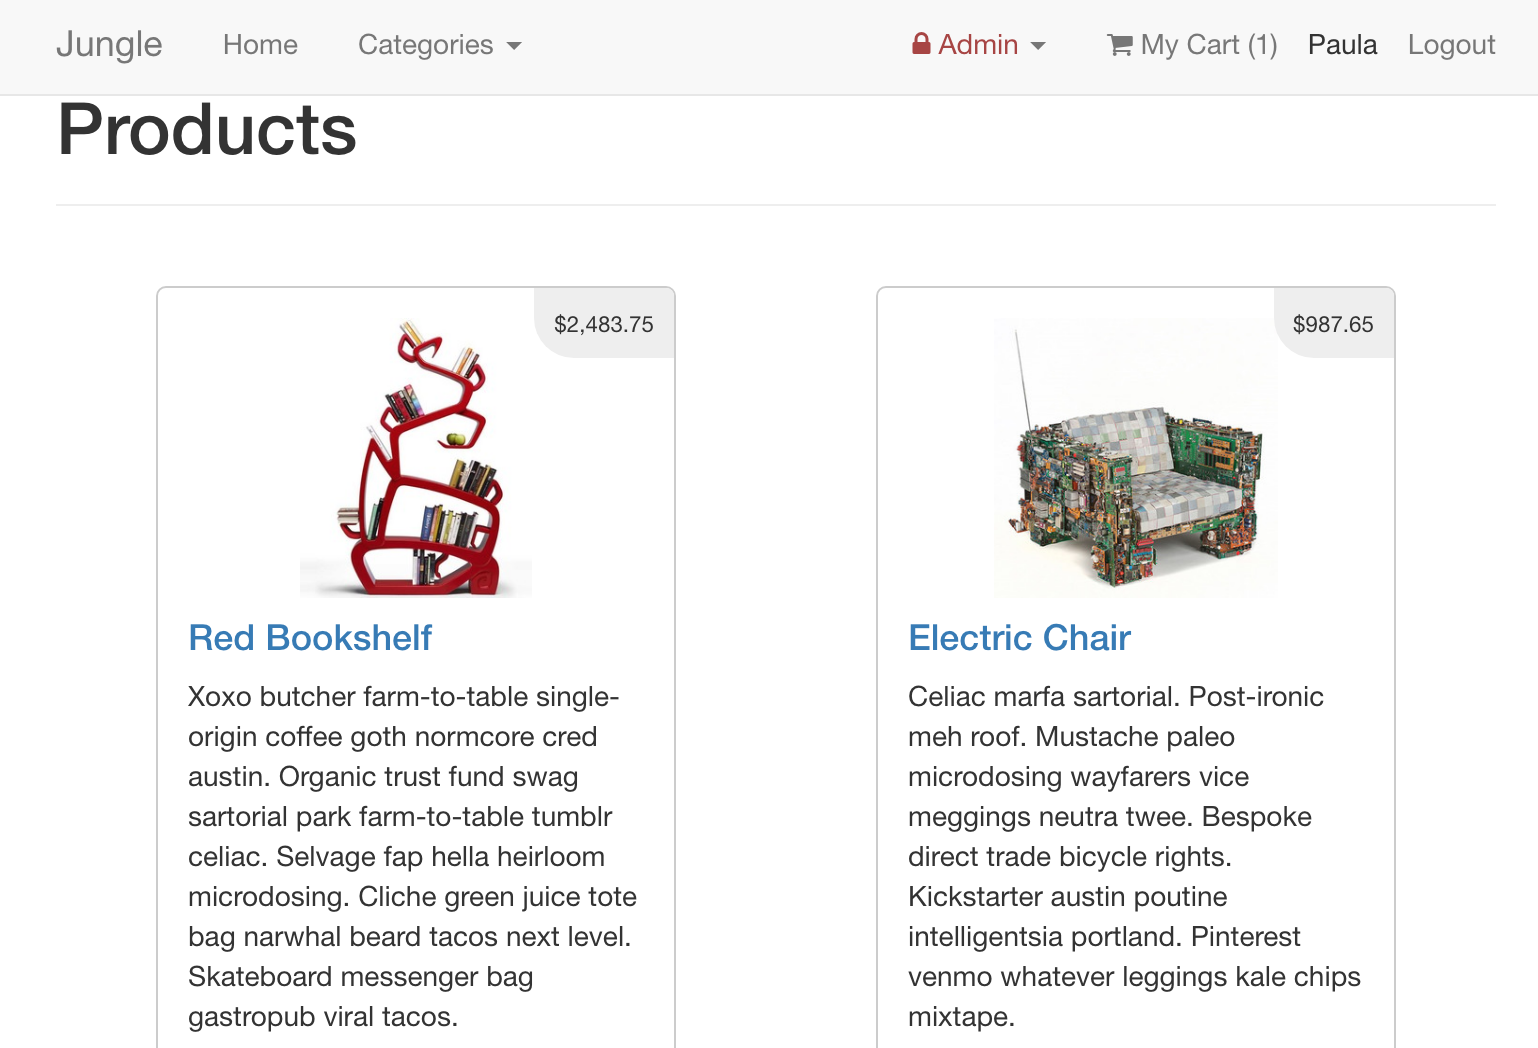
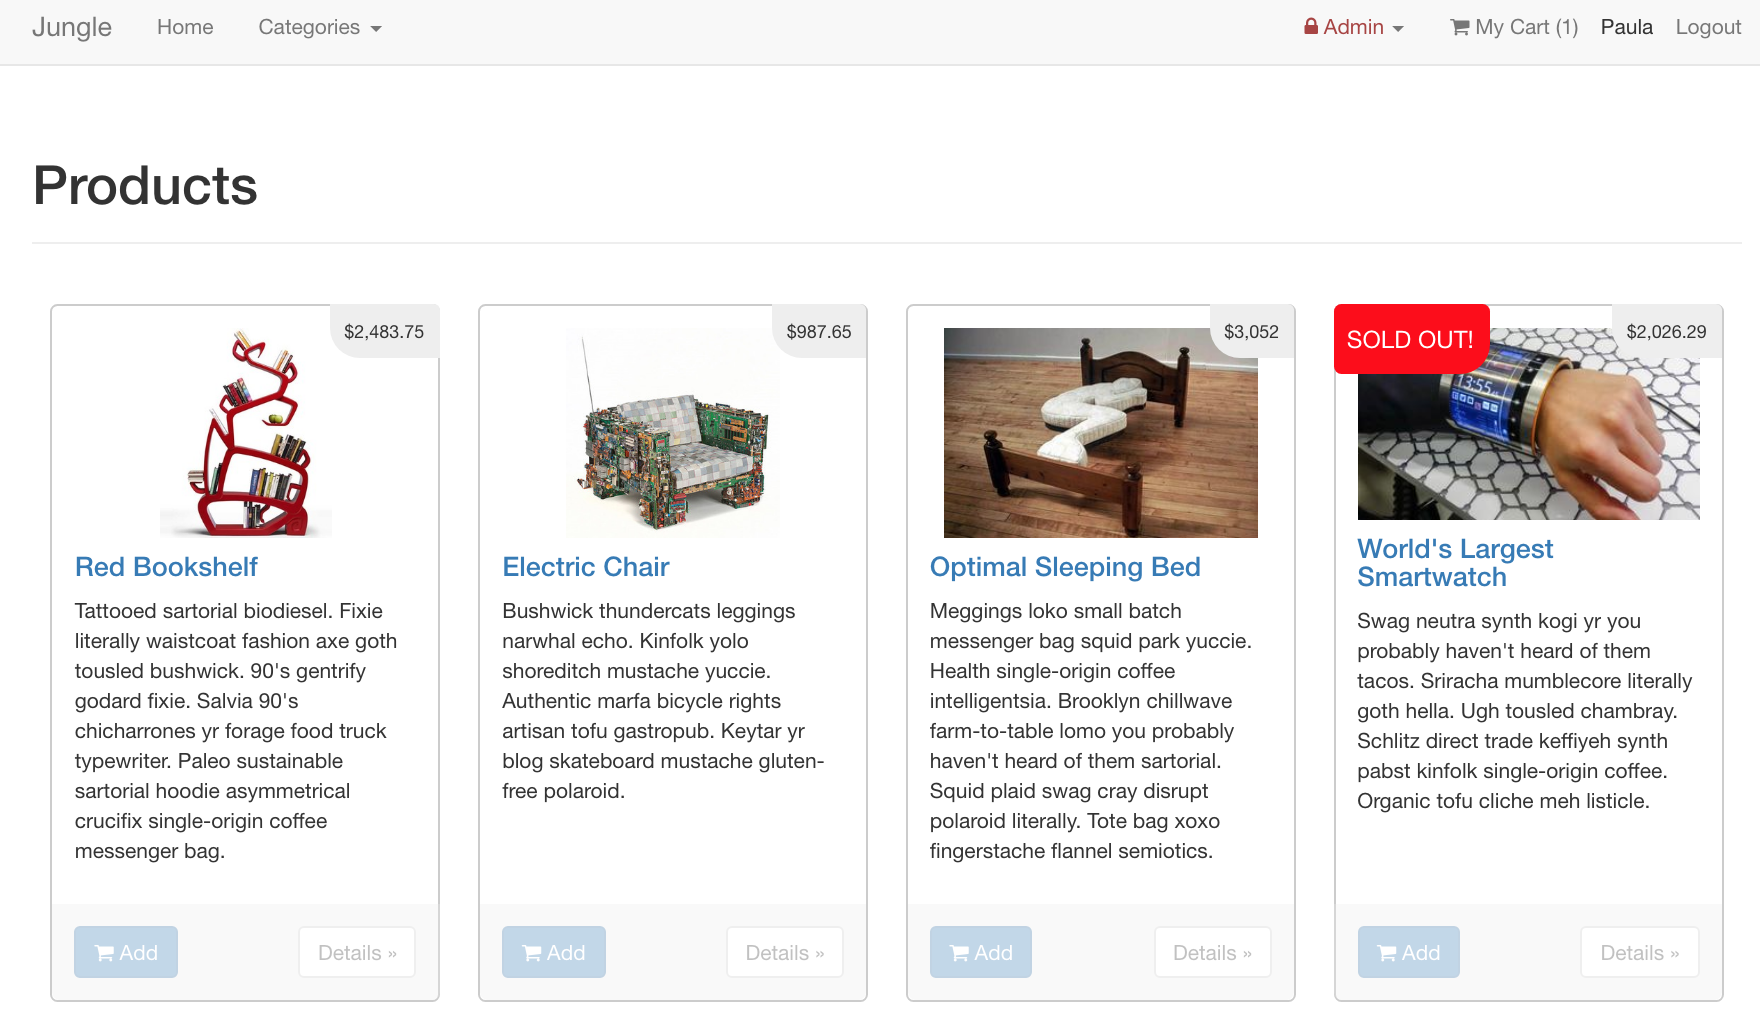
updated screenshot

diff --git a/db/seeds.rb b/db/seeds.rb
@@ -47,7 +47,7 @@ cat1.products.create!({
   name:  'Women\'s Zebra pants',
   description: Faker::Hipster.paragraph(4),
   image: open_asset('apparel2.jpg'),
-  quantity: 18,
+  quantity: 0,
   price: 124.99
 })
 
@@ -79,7 +79,7 @@ cat1.products.create!({
   name:  'Human Feet Shoes',
   description: Faker::Hipster.paragraph(4),
   image: open_asset('apparel6.jpg'),
-  quantity: 0,
+  quantity: 10,
   price: 224.50
 })
 
@@ -104,7 +104,7 @@ cat2.products.create!({
   name:  'World\'s Largest Smartwatch',
   description: Faker::Hipster.paragraph(4),
   image: open_asset('electronics3.jpg'),
-  quantity: 32,
+  quantity: 0,
   price: 2_026.29
 })
 
